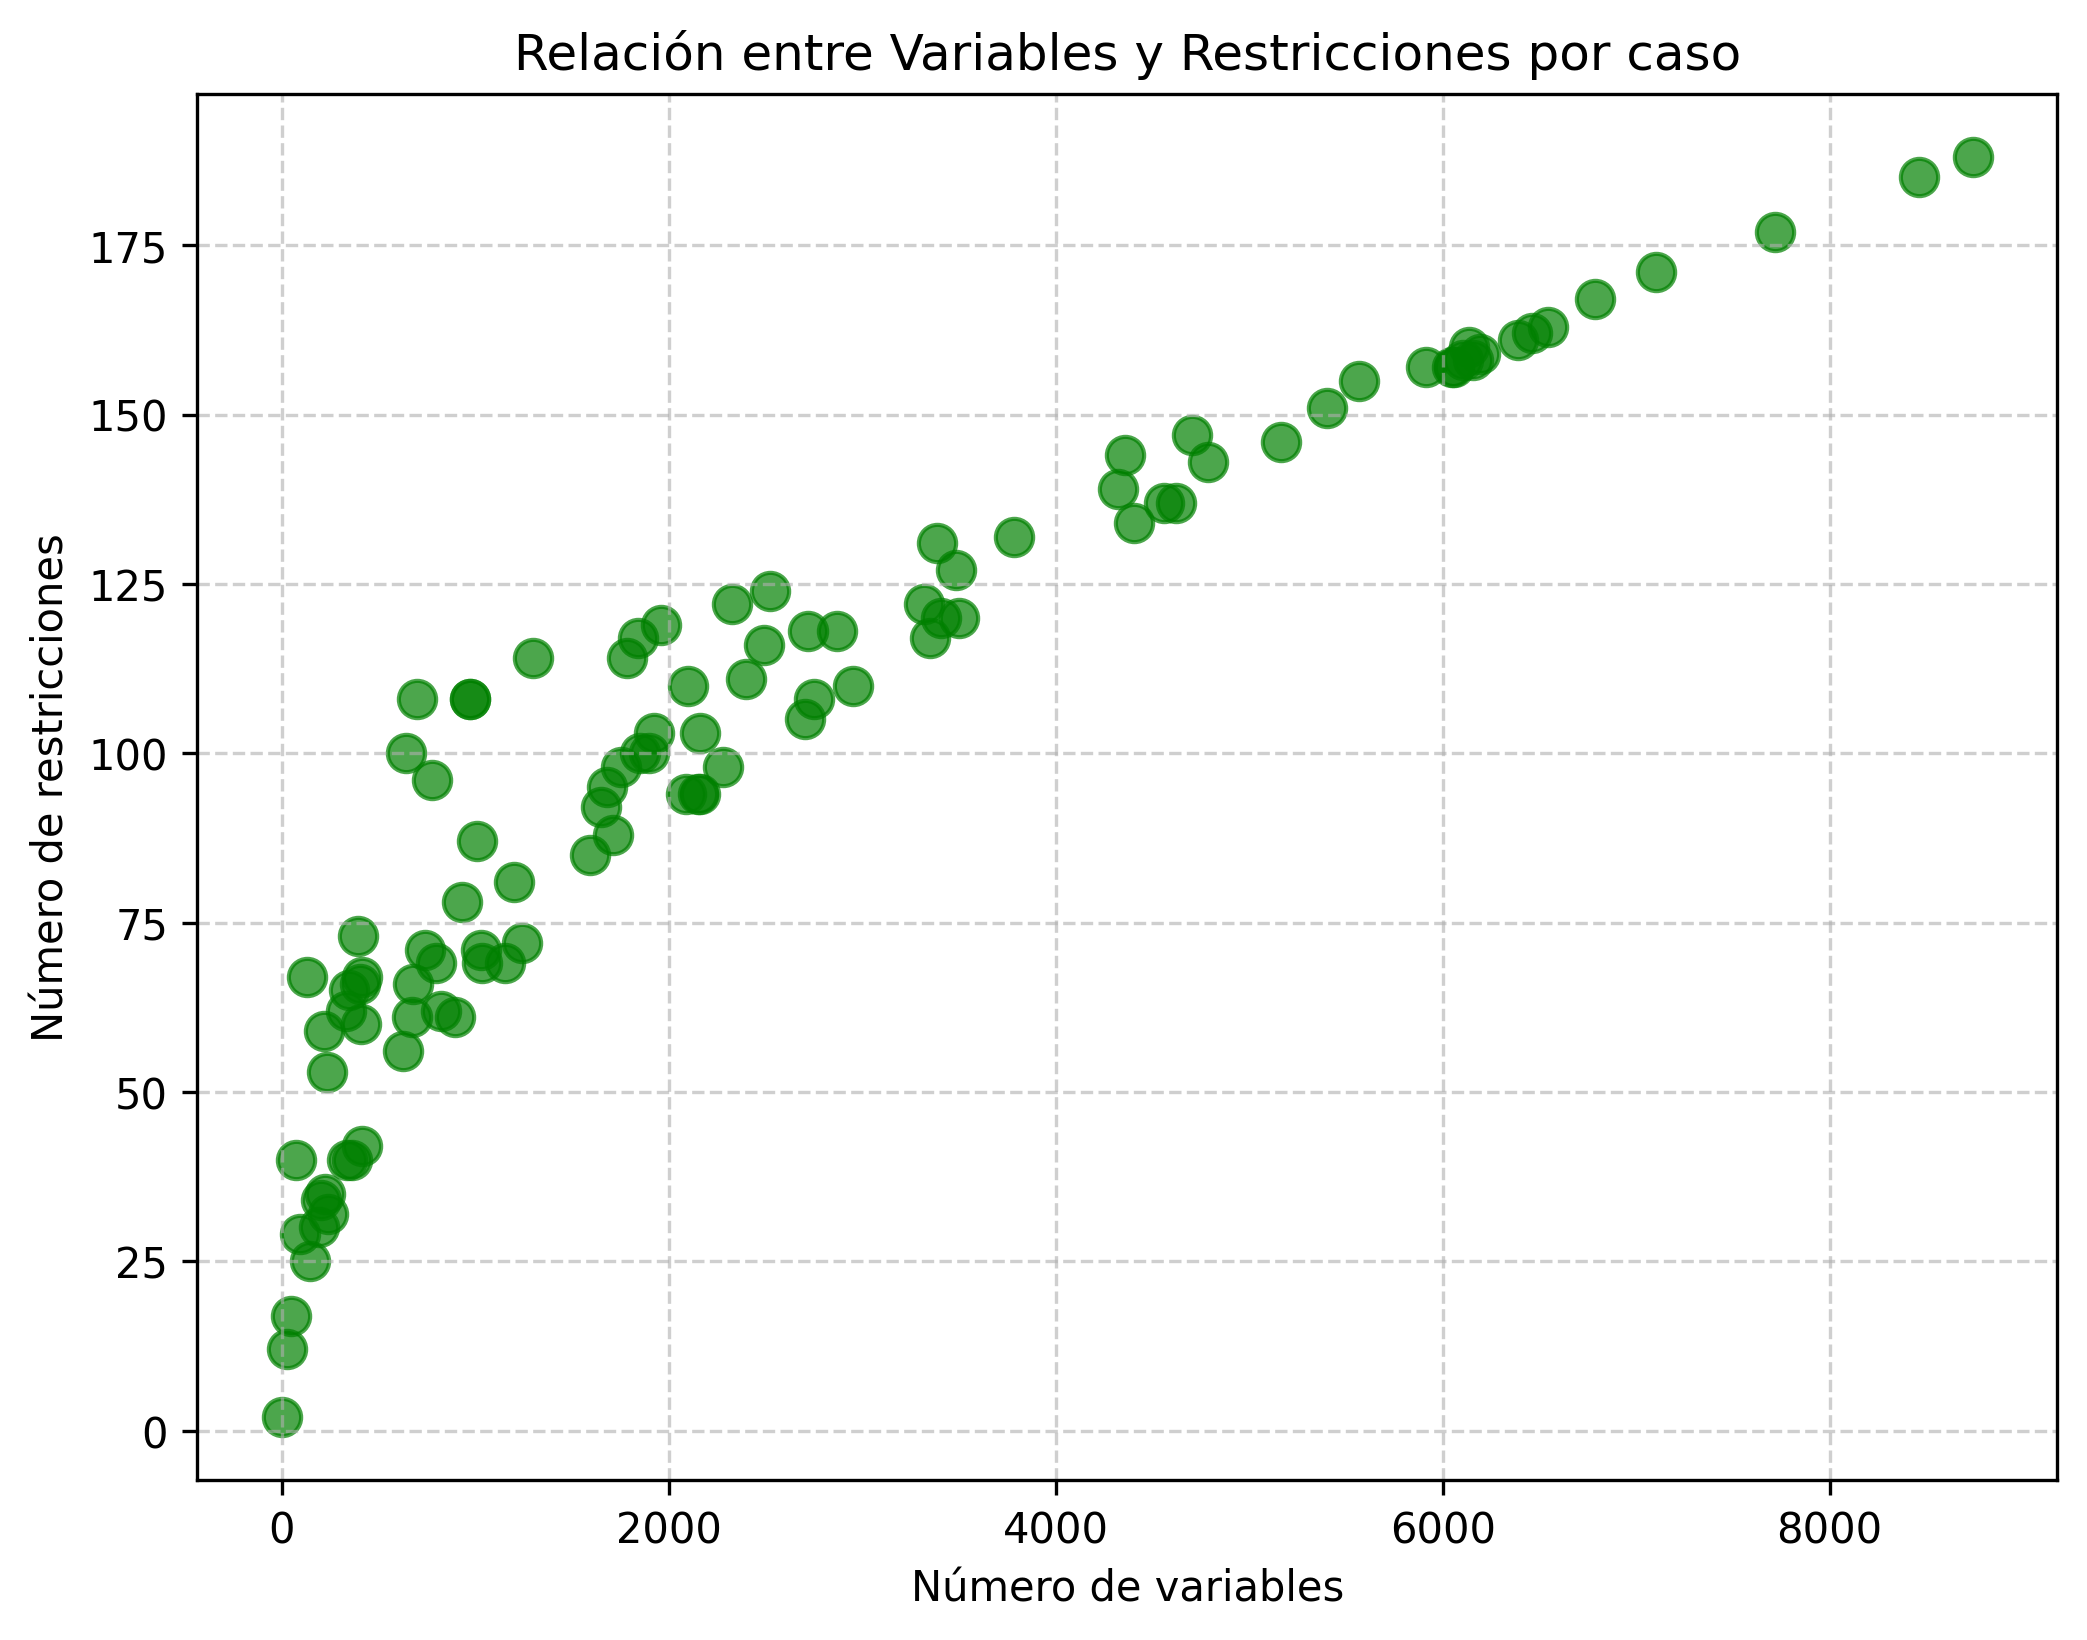
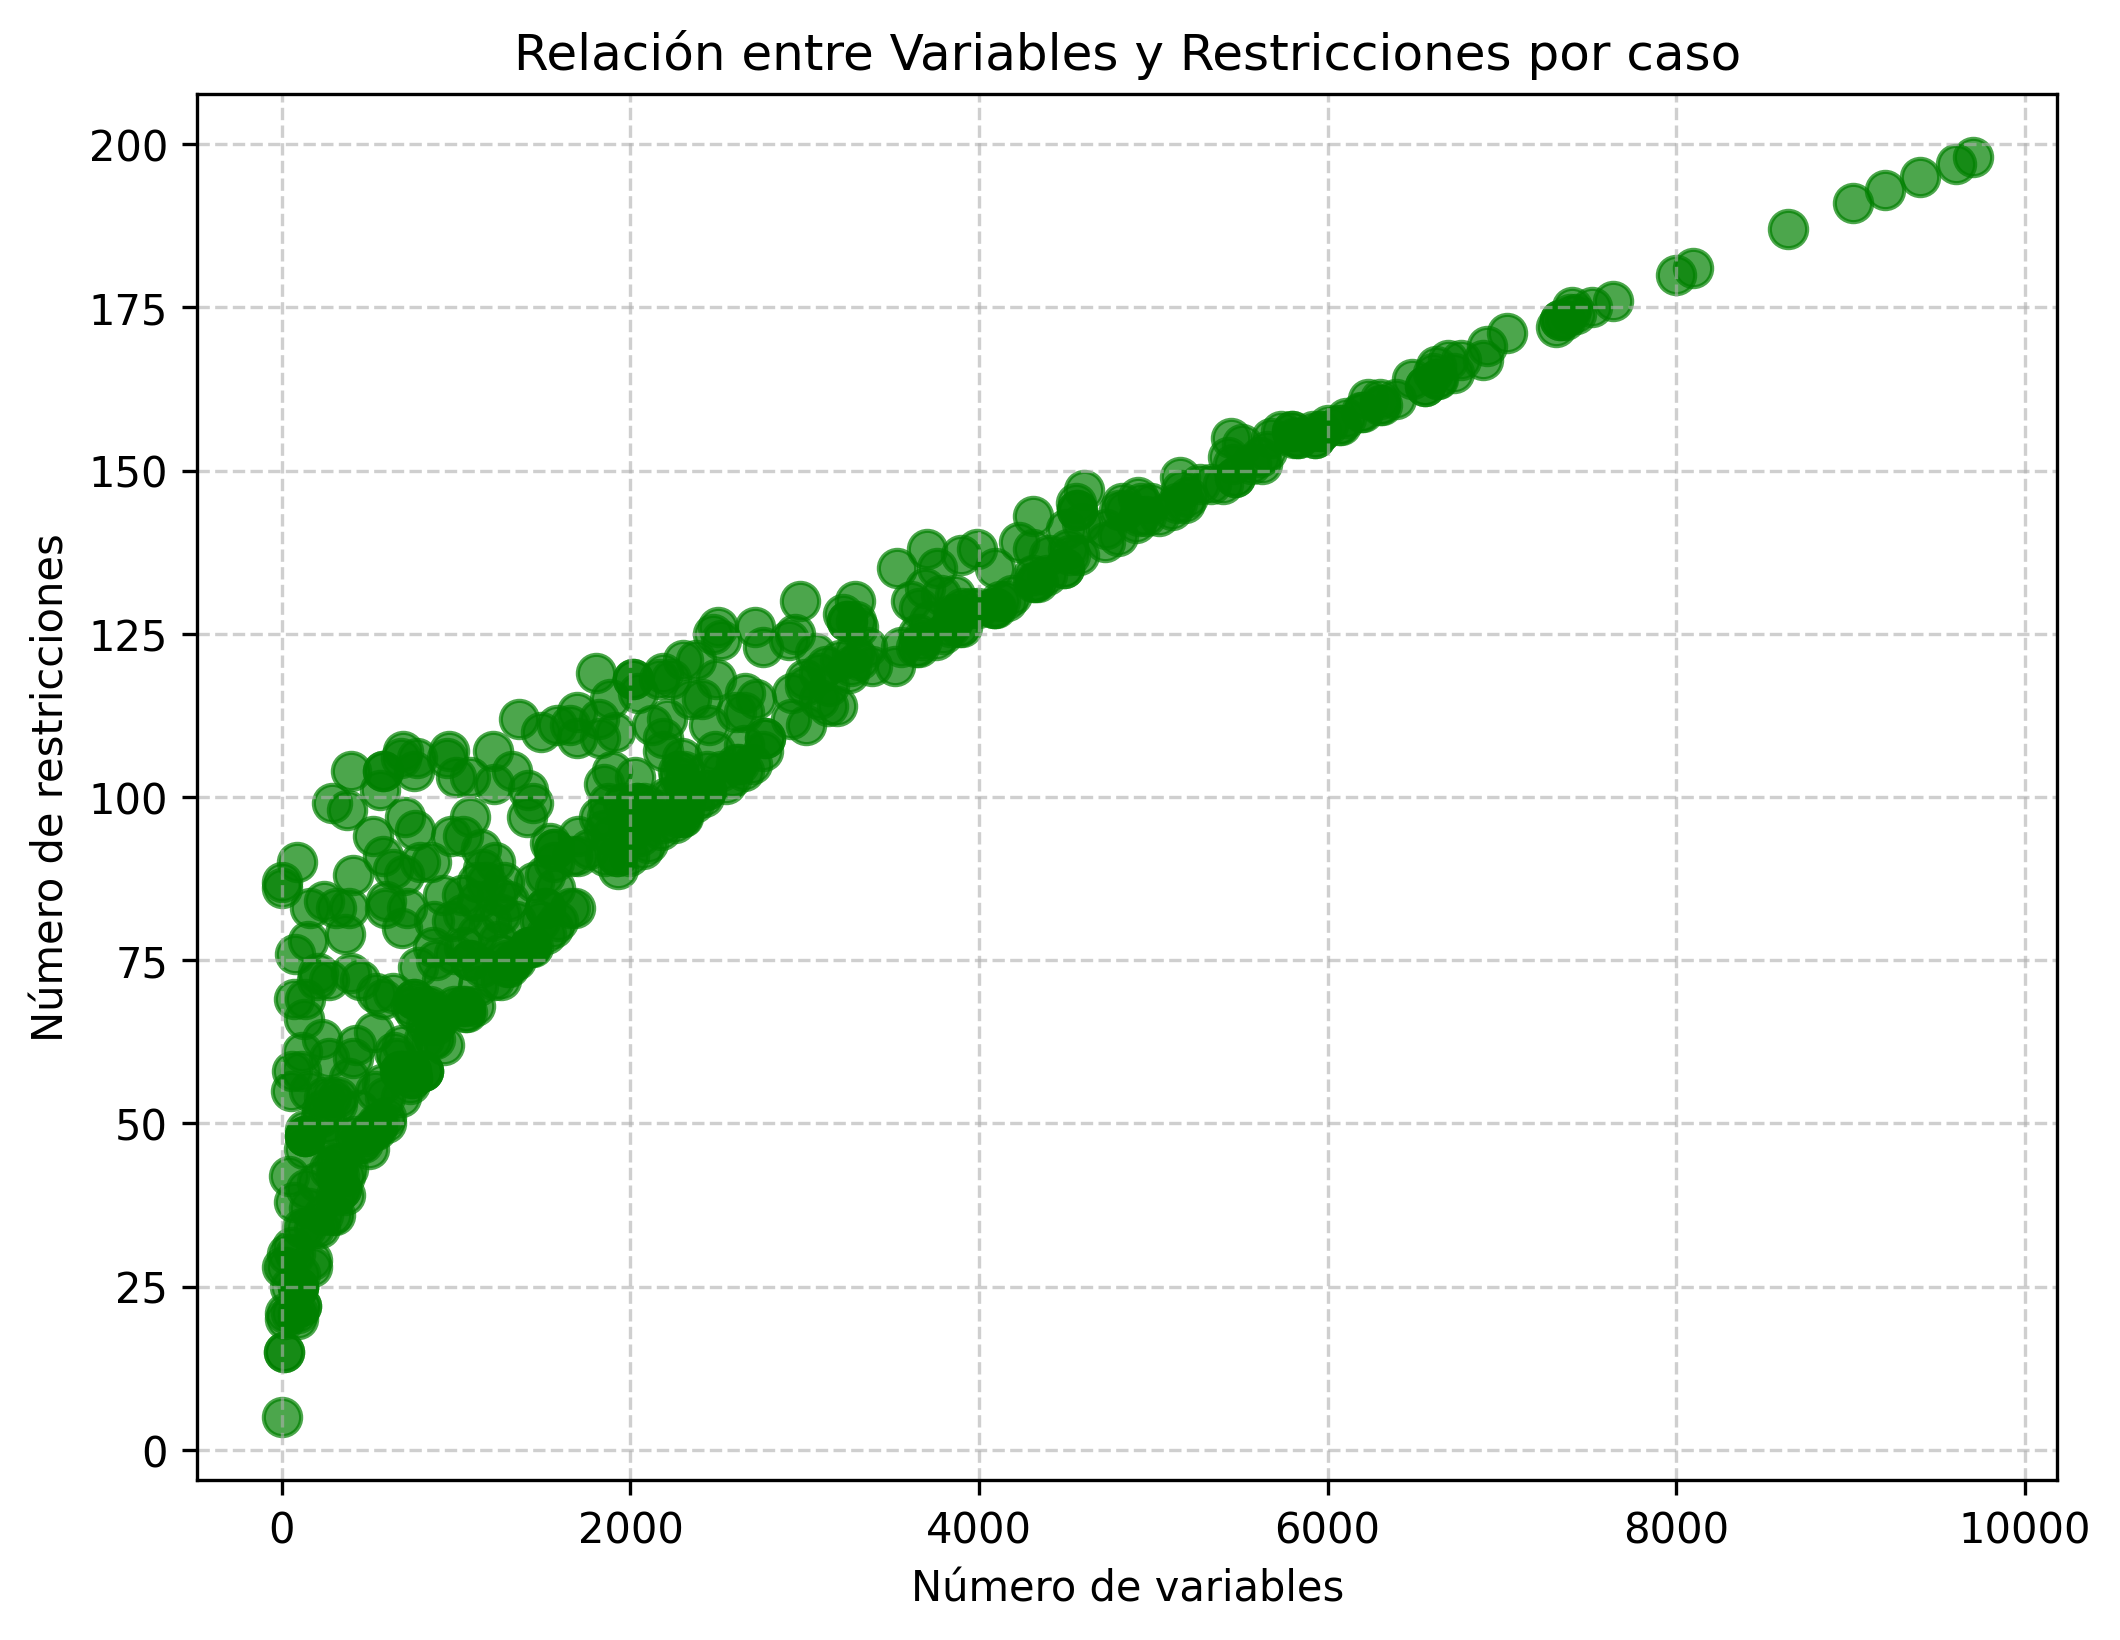
add validations when no optimal solution is found

diff --git a/parte-2-2/random-cases-2.py b/parte-2-2/random-cases-2.py
@@ -1,0 +1,156 @@
+#!/usr/bin/env python3
+import random
+import argparse
+import subprocess
+import time
+import re
+import csv
+import os
+from pathlib import Path
+import pandas as pd
+import matplotlib.pyplot as plt
+import numpy as np
+
+parser = argparse.ArgumentParser(description="Generate several random input files and collect statistics for model 2.2.")
+parser.add_argument("num_cases", type=int, nargs="?", default=10, help="Number of random cases to generate.")
+parser.add_argument("output_csv", type=str, nargs="?", default="stats2.csv", help="CSV file to store statistics.")
+parser.add_argument("--seed", type=int, default=None, help="Seed for the random number generator.")
+parser.add_argument("--keep-files", action="store_true", help="Do not delete temporary files generated.")
+args = parser.parse_args()
+
+if args.seed is not None:
+    random.seed(args.seed)
+
+csv_path = Path(args.output_csv)
+# Ensure the old stats file is removed before starting
+if csv_path.exists():
+    os.remove(csv_path)
+
+if not csv_path.exists():
+    with open(csv_path, "w", newline="") as f:
+        writer = csv.writer(f)
+        writer.writerow(["case_file", "n_slots", "m_buses", "u_workshops", "time_s", "variables", "constraints"])
+
+for case_idx in range(1, args.num_cases + 1):
+    # Generate random case
+    n = random.randint(1, 10)  # Number of time slots
+    m = random.randint(1, 10)  # Number of buses
+    u = random.randint(1, 10)  # Number of workshops
+
+    # Generate binary O matrix (n x u)
+    O = [[random.randint(0, 1) for _ in range(u)] for _ in range(n)]
+
+    # Ensure the problem is solvable: number of buses must not exceed total available slots.
+    total_available_slots = sum(sum(row) for row in O)
+    if total_available_slots == 0: # Avoid unsolvable cases where no slots are available
+        O[random.randint(0, n-1)][random.randint(0, u-1)] = 1
+        total_available_slots = 1
+    if m > total_available_slots:
+        m = total_available_slots # Adjust number of buses to be solvable
+
+    # Generate symmetric C matrix (m x m) for the (possibly adjusted) number of buses
+    C = [[0.0] * m for _ in range(m)]
+    for i in range(m):
+        for j in range(i, m):
+            if i == j:
+                C[i][j] = 0
+            else:
+                val = round(random.uniform(1.0, 100.0), 2)
+                C[i][j] = val
+                C[j][i] = val
+
+    case_file = f"random_case_{case_idx}.in"
+    output_dat = f"random_output_{case_idx}.dat"
+
+    with open(case_file, 'w') as f:
+        f.write(f"{n} {m} {u}\n")
+        for row in C:
+            f.write(" ".join(map(str, row)) + "\n")
+        for row in O:
+            f.write(" ".join(map(str, row)) + "\n")
+
+    print(f"[{case_idx}] File '{case_file}' generated with n={n} slots, m={m} buses, u={u} workshops.")
+
+    # Measure execution time
+    start_time = time.perf_counter()
+    try:
+        result = subprocess.run(
+            ["python3", "gen-2.py", case_file, output_dat],
+            capture_output=True,
+            text=True,
+            check=True
+        )
+    except subprocess.CalledProcessError as e:
+        print(f"Error executing gen-2.py on case {case_idx}")
+        print(e.stderr)
+        # Delete files on error
+        if not args.keep_files:
+            for f_ in (case_file, output_dat):
+                try: os.remove(f_)
+                except FileNotFoundError: pass
+        continue
+    end_time = time.perf_counter()
+    elapsed_time = end_time - start_time
+
+    # Parse variables and constraints
+    stdout = result.stdout
+    vars_match = re.search(r"Variables:\s*(\d+)", stdout, re.IGNORECASE)
+    rows_match = re.search(r"Restricciones:\s*(\d+)", stdout, re.IGNORECASE)
+    num_vars = int(vars_match.group(1)) if vars_match else None
+    num_constraints = int(rows_match.group(1)) if rows_match else None
+
+    print(f"[{case_idx}] Time: {elapsed_time:.4f}s, Variables: {num_vars}, Constraints: {num_constraints}")
+
+    # Save statistics
+    with open(csv_path, "a", newline="") as f:
+        writer = csv.writer(f)
+        writer.writerow([case_file, n, m, u, elapsed_time, num_vars, num_constraints])
+
+    # 🧹 Clean up temporary files if not requested to keep them
+    if not args.keep_files:
+        for f_ in (case_file, output_dat):
+            try:
+                os.remove(f_)
+            except FileNotFoundError:
+                pass
+# --- Create plots ---
+
+# Read CSV
+df = pd.read_csv(csv_path)
+
+# --- Plot 1: Variables vs Time ---
+df_sorted_vars = df.sort_values(by='variables')
+plt.figure(figsize=(8,6))
+plt.plot(df_sorted_vars['variables'], df_sorted_vars['time_s'],
+         marker='o', color='blue', linestyle='-')
+plt.xlabel("Number of variables")
+plt.ylabel("Execution Time (s)")
+plt.title("Execution Time vs. Number of Variables")
+plt.grid(True, linestyle='--', alpha=0.7)
+plt.savefig("variables_vs_time_p2.png", dpi=300, bbox_inches='tight')
+plt.show()
+
+# --- Plot 2: Constraints vs Time ---
+df_sorted_constraints = df.sort_values(by='constraints')
+plt.figure(figsize=(8,6))
+plt.plot(df_sorted_constraints['constraints'], df_sorted_constraints['time_s'],
+         marker='o', color='orange', linestyle='-')
+plt.xlabel("Number of constraints")
+plt.ylabel("Execution Time (s)")
+plt.title("Execution Time vs. Number of Constraints")
+plt.grid(True, linestyle='--', alpha=0.7)
+plt.savefig("constraints_vs_time_p2.png", dpi=300, bbox_inches='tight')
+plt.show()
+
+# Plot 3: Variables vs Constraints
+plt.figure(figsize=(8,6))
+plt.scatter(df['variables'], df['constraints'], c='green', s=80, alpha=0.7)
+plt.xlabel("Number of variables")
+plt.ylabel("Number of constraints")
+plt.title("Relationship between Variables and Constraints per Case")
+plt.grid(True, linestyle='--', alpha=0.6)
+plt.savefig("variables_vs_constraints_p2.png", dpi=300, bbox_inches='tight')
+
+# Clean up the statistics file
+if not args.keep_files:
+    os.remove(csv_path)

diff --git a/parte-2-1/gen-1.py b/parte-2-1/gen-1.py
@@ -110,10 +110,10 @@ debug_print("Ejecutando glpsol...")
 # Solve with GLPK, capturing output to hide it from the terminal
 try:
     result = subprocess.run(
-        ["glpsol", "--model", "parte-2-1.mod", "--data", outfile, "-o", "output.out"],
+        ["glpsol", "--model", "parte-2-1.mod", "--data", outfile, "--output", "output.out"],
         capture_output=True,
         text=True,
-        check=True  # This will raise an exception if glpsol fails
+        check=False  # We will check the output manually
     )
 except FileNotFoundError:
     print("\nError: El comando 'glpsol' no se encontró.")
@@ -124,6 +124,17 @@ except subprocess.CalledProcessError as e:
     print("Revisa que el fichero del modelo 'parte-2-1.mod' existe y es correcto.")
     print("Salida de error de glpsol:")
     print(e.stderr)
+    sys.exit(1)
+
+# Check if an optimal solution was found by reading the stdout
+debug_print(result.stdout)
+if "OPTIMAL LP SOLUTION FOUND" not in result.stdout:
+    print("\nError: No se encontró una solución óptima.", file=sys.stderr)
+    if "HAS NO PRIMAL FEASIBLE SOLUTION" in result.stdout:
+        print("Razón: El problema no tiene una solución factible (es infactible).", file=sys.stderr)
+    elif "HAS NO DUAL FEASIBLE SOLUTION" in result.stdout:
+        print("Razón: El problema es no acotado.", file=sys.stderr)
+    # Exit with an error code so that random-cases-1.py can catch it
     sys.exit(1)
 
 

diff --git a/parte-2-1/random-cases-1.py b/parte-2-1/random-cases-1.py
@@ -107,16 +107,15 @@ plt.savefig("variables_vs_tiempo.png", dpi=300, bbox_inches='tight')
 plt.show()
 
 # --- Gráfica 2: Variables + Restricciones vs Tiempo ---
-df['vars_plus_constraints'] = df['variables'] + df['constraints']
-df_sorted_total = df.sort_values(by='vars_plus_constraints')
+df_sorted_constraints = df.sort_values(by='constraints')
 plt.figure(figsize=(8,6))
-plt.plot(df_sorted_total['vars_plus_constraints'], df_sorted_total['time_s'],
+plt.plot(df_sorted_constraints['constraints'], df_sorted_constraints['time_s'],
          marker='o', color='orange', linestyle='-')
-plt.xlabel("Número de variables + número de restricciones")
+plt.xlabel("Número de restricciones")
 plt.ylabel("Tiempo de ejecución (s)")
-plt.title("Tiempo de ejecución vs Variables + Restricciones")
+plt.title("Tiempo de ejecución vs Número de restricciones")
 plt.grid(True, linestyle='--', alpha=0.7)
-plt.savefig("vars_plus_constraints_vs_tiempo.png", dpi=300, bbox_inches='tight')
+plt.savefig("constraints_vs_tiempo.png", dpi=300, bbox_inches='tight')
 plt.show()
 
 # Gráfica Variables vs Restricciones

diff --git a/parte-2-2/gen-2.py b/parte-2-2/gen-2.py
@@ -150,6 +150,16 @@ assignments = {}
 with open("output2.out", "r", encoding="utf-8") as f:
     out = f.read()
 
+debug_print(result.stdout)
+# Check if an optimal solution was found
+if "OPTIMAL SOLUTION FOUND" not in result.stdout:
+    print("Error: No se encontró una solución óptima.", file=sys.stderr)
+    if "HAS NO PRIMAL FEASIBLE SOLUTION" in result.stdout:
+        print("Razón: El problema no tiene una solución factible (es infactible).", file=sys.stderr)
+    elif "HAS NO DUAL FEASIBLE SOLUTION" in result.stdout:
+        print("Razón: El problema es no acotado.", file=sys.stderr)
+    sys.exit(1)
+
 mobj = re.search(r"Objective:\s+\w+\s+=\s+([0-9eE.+-]+)", out)
 if mobj:
     objective_value = float(mobj.group(1))
